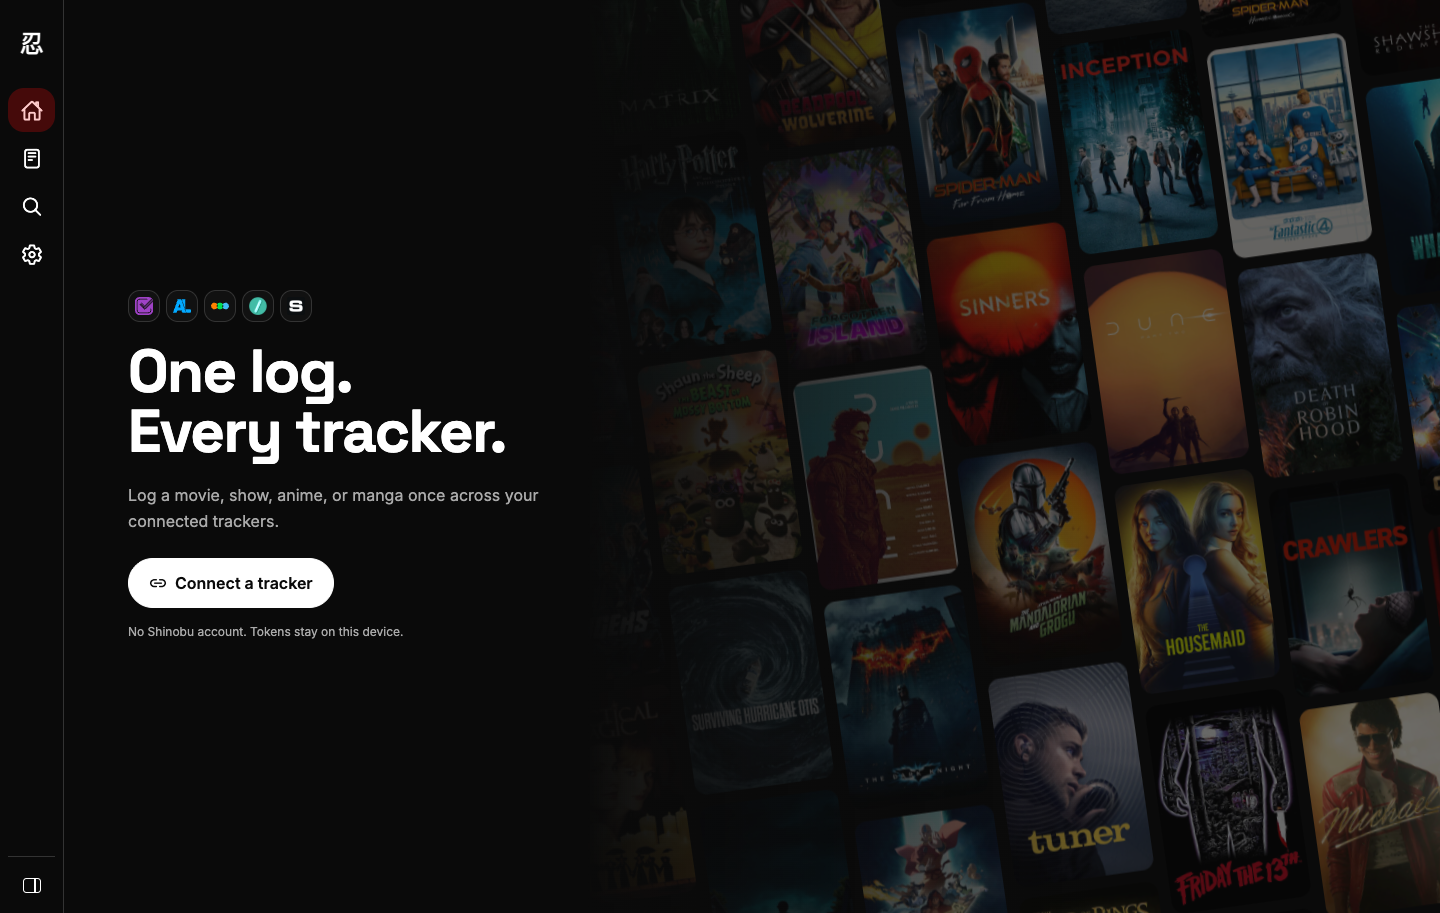
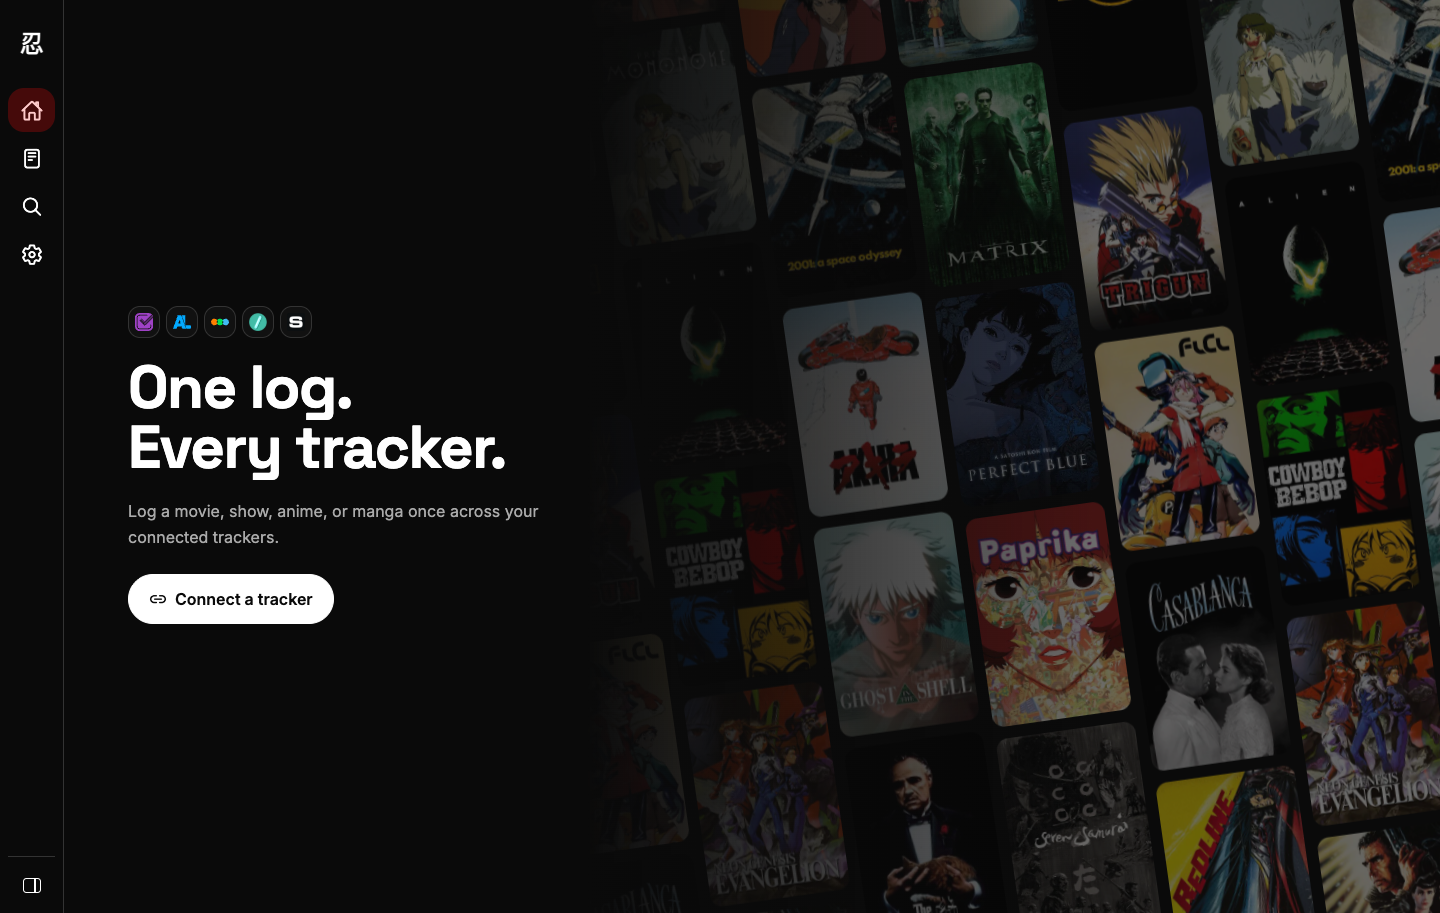
fix(home): favor classic films and anime in the poster wall

diff --git a/src/features/feed/poster-wall.tsx b/src/features/feed/poster-wall.tsx
@@ -1,5 +1,6 @@
 import { LinearGradient } from 'expo-linear-gradient';
 import { useIsFocused } from 'expo-router';
+import { useSyncExternalStore } from 'react';
 import { useWindowDimensions, View } from 'react-native';
 import { css, useReducedMotion } from 'react-native-reanimated';
 // oxlint-disable-next-line no-restricted-imports -- one composed colour, see the call site.
@@ -9,7 +10,38 @@ import { AnimatedView } from '@/components/animated-view';
 import { Image } from '@/components/image';
 import { heldKeyframes } from '@/components/section-enter';
 import { EASE_OUT } from '@/lib/motion';
-import { useTrendingMoviesQuery } from '@/state/queries/use-unified-feed';
+import { tmdbImageUrl } from '@/lib/providers/tmdb/config';
+
+const POSTERS = [
+  '/xDiXDfZwC6XYC6fxHI1jl3A3Ill.jpg', // Cowboy Bebop (1998)
+  '/y2ah9t0navXyIvoHg1uIbIHO3tt.jpg', // Neon Genesis Evangelion (1995)
+  '/63N9uy8nd9j7Eog2axPQ8lbr3Wj.jpg', // Blade Runner (1982)
+  '/39wmItIWsg5sZMyRUHLkWBcuVCM.jpg', // Spirited Away (2001)
+  '/cMYCDADoLKLbB83g4WnJegaZimC.jpg', // Princess Mononoke (1997)
+  '/vfrQk5IPloGg1v9Rzbh2Eg3VGyM.jpg', // Alien (1979)
+  '/neZ0ykEsPqxamsX6o5QNUFILQrz.jpg', // Akira (1988)
+  '/9gC88zYUBARRSThcG93MvW14sqx.jpg', // Ghost in the Shell (1995)
+  '/3bhkrj58Vtu7enYsRolD1fZdja1.jpg', // The Godfather (1972)
+  '/3MQo7PPuntw8GaZrsBPZcJLJity.jpg', // Serial Experiments Lain (1998)
+  '/lYpHeSm7BcUxAbBx1ucuEH7oGAe.jpg', // Samurai Champloo (2004)
+  '/ve72VxNqjGM69Uky4WTo2bK6rfq.jpg', // 2001: A Space Odyssey (1968)
+  '/6WTiOCfDPP8XV4jqfloiVWf7KHq.jpg', // Perfect Blue (1998)
+  '/nHJljo2Pi7XimYEgV9hvRchQWmg.jpg', // Paprika (2006)
+  '/lOMGc8bnSwQhS4XyE1S99uH8NXf.jpg', // Seven Samurai (1954)
+  '/41XxSsJc5OrulP0m7TrrUeO2hoz.jpg', // Castle in the Sky (1986)
+  '/rtGDOeG9LzoerkDGZF9dnVeLppL.jpg', // My Neighbor Totoro (1988)
+  '/dXNAPwY7VrqMAo51EKhhCJfaGb5.jpg', // The Matrix (1999)
+  '/lwLFZFB3S2PeOLtWksaWerF6B4D.jpg', // Trigun (1998)
+  '/FkgA8CcmiLJGVCRYRQ2g2UfVtF.jpg', // FLCL (2000)
+  '/lGCEKlJo2CnWydQj7aamY7s1S7Q.jpg', // Casablanca (1943)
+  '/yUkH0y9OsY7J08Dvfzi1P0di559.jpg', // Redline (2009)
+  '/onCLyCOgszTIyyVs2XKYSkKPOPG.jpg', // Dragon Ball (1986)
+  '/d9mtMGQDLANKieb9PbD3yK7xxzo.jpg', // Jurassic Park (1993)
+].map((path) => tmdbImageUrl(path, 'w342'));
+
+function subscribeNever() {
+  return () => {};
+}
 
 const PER_COLUMN = 6;
 const COMPACT = { width: 112, height: 168, gap: 10 };
@@ -49,20 +81,15 @@ const COLUMN_RHYTHM = [
   { offset: 0.1, duration: 90_000 },
 ];
 
-/**
- * The zero-providers Home backdrop: Simkl's public trending posters (bundled
- * client id, no session), shown once loaded and drifting in tilted columns under a fade to the page
- * background. Decoration only, so it is hidden from touch and screen readers,
- * paused while Home is a background tab, and still under reduced motion.
- */
+/** A fixed mix of classic films and anime keeps the welcome wall out of release-week trends. */
 export function PosterWall() {
-  const { data } = useTrendingMoviesQuery();
+  const hydrated = useSyncExternalStore(subscribeNever, () => true, () => false);
   const { width } = useWindowDimensions();
   const focused = useIsFocused();
   const reduceMotion = useReducedMotion();
   // `useCSSVariable`, not `useThemeColor`: the fade composes a transparent stop
-  // (`${background}00`), which web's `var(--token)` can't. The query never
-  // resolves during prerender, so the wall and this colour are client-only
+  // (`${background}00`), which web's `var(--token)` can't. Wait for hydration
+  // so the wall and this colour are client-only
   // (docs/solutions/web-prerender-bakes-js-resolved-colors.md).
   const backgroundVariable = useCSSVariable('--color-background');
   const background = typeof backgroundVariable === 'string' ? backgroundVariable : undefined;
@@ -71,8 +98,7 @@ export function PosterWall() {
   const size = wide ? WIDE : COMPACT;
   // The tilt pulls the corners inward, so the wall is half again as wide as the screen.
   const columns = Math.ceil((width * 1.5) / (size.width + size.gap));
-  const posters = (data ?? []).map((item) => item.coverImage).filter((uri) => uri !== '');
-  if (posters.length === 0 || background == null) return null;
+  if (!hydrated || background == null) return null;
 
   return (
     <View
@@ -94,56 +120,56 @@ export function PosterWall() {
         {Array.from({ length: columns }, (_, column) => {
           const set = Array.from(
             { length: PER_COLUMN },
-            (_poster, row) => posters[(column * PER_COLUMN + row) % posters.length],
+            (_poster, row) => POSTERS[(column * PER_COLUMN + row) % POSTERS.length],
           );
-            const rhythm = COLUMN_RHYTHM[column % COLUMN_RHYTHM.length];
-            return (
+          const rhythm = COLUMN_RHYTHM[column % COLUMN_RHYTHM.length];
+          return (
+            <AnimatedView
+              key={column}
+              style={{
+                marginTop: -rhythm.offset * (size.height + size.gap),
+                animationName: heldKeyframes(
+                  reduceMotion ? wallFading : wallEntering,
+                  column * ENTER_STAGGER,
+                  ENTER_DURATION,
+                ),
+                animationDuration: ENTER_DURATION + column * ENTER_STAGGER,
+                animationTimingFunction: EASE_OUT,
+              }}
+            >
               <AnimatedView
-                key={column}
                 style={{
-                  marginTop: -rhythm.offset * (size.height + size.gap),
-                  animationName: heldKeyframes(
-                    reduceMotion ? wallFading : wallEntering,
-                    column * ENTER_STAGGER,
-                    ENTER_DURATION,
-                  ),
-                  animationDuration: ENTER_DURATION + column * ENTER_STAGGER,
-                  animationTimingFunction: EASE_OUT,
+                  gap: size.gap,
+                  animationName: reduceMotion ? undefined : wide ? WIDE_DRIFT : COMPACT_DRIFT,
+                  animationDuration: rhythm.duration,
+                  animationTimingFunction: 'linear',
+                  animationIterationCount: 'infinite',
+                  animationDirection: column % 2 === 0 ? 'normal' : 'reverse',
+                  animationPlayState: focused ? 'running' : 'paused',
                 }}
               >
-                <AnimatedView
-                  style={{
-                    gap: size.gap,
-                    animationName: reduceMotion ? undefined : wide ? WIDE_DRIFT : COMPACT_DRIFT,
-                    animationDuration: rhythm.duration,
-                    animationTimingFunction: 'linear',
-                    animationIterationCount: 'infinite',
-                    animationDirection: column % 2 === 0 ? 'normal' : 'reverse',
-                    animationPlayState: focused ? 'running' : 'paused',
-                  }}
-                >
-                  {[...set, ...set, ...set].map((uri, index) => (
-                    // Index keys: the repeated set repeats every uri by design.
-                    <View
-                      className="rounded-lg overflow-hidden bg-surface"
-                      key={index}
-                      style={{ width: size.width, height: size.height }}
-                    >
-                      <Image className="w-full h-full" contentFit="cover" source={{ uri }} />
-                    </View>
-                  ))}
-                </AnimatedView>
+                {[...set, ...set, ...set].map((uri, index) => (
+                  // Index keys: the repeated set repeats every uri by design.
+                  <View
+                    className="rounded-lg overflow-hidden bg-surface"
+                    key={index}
+                    style={{ width: size.width, height: size.height }}
+                  >
+                    <Image className="w-full h-full" contentFit="cover" source={{ uri }} />
+                  </View>
+                ))}
               </AnimatedView>
-            );
-          })}
-        </View>
-        <LinearGradient
-          colors={[`${background}33`, `${background}B3`, background]}
-          end={wide ? { x: 0, y: 0.5 } : { x: 0.5, y: 1 }}
-          locations={wide ? [0.25, 0.5, 0.62] : [0, 0.45, 0.68]}
-          start={wide ? { x: 1, y: 0.5 } : { x: 0.5, y: 0 }}
-          style={{ position: 'absolute', inset: 0 }}
-        />
+            </AnimatedView>
+          );
+        })}
       </View>
+      <LinearGradient
+        colors={[`${background}33`, `${background}B3`, background]}
+        end={wide ? { x: 0, y: 0.5 } : { x: 0.5, y: 1 }}
+        locations={wide ? [0.25, 0.5, 0.62] : [0, 0.45, 0.68]}
+        start={wide ? { x: 1, y: 0.5 } : { x: 0.5, y: 0 }}
+        style={{ position: 'absolute', inset: 0 }}
+      />
+    </View>
   );
 }

diff --git a/src/app/(tabs)/index.tsx b/src/app/(tabs)/index.tsx
@@ -141,11 +141,6 @@ function EmptyFeed({ connectFailed }: { connectFailed: boolean }) {
                 onPress={() => pushRoute(routes.settings)}
               />
             </HeroEnter>
-            <HeroEnter className="mt-4" delay={COPY_STAGGER * 4}>
-              <Text className="text-muted font-sans text-xs text-center md:text-left">
-                No Shinobu account. Tokens stay on this device.
-              </Text>
-            </HeroEnter>
           </View>
         )}
       </GestureScrollView>

diff --git a/src/state/queries/use-unified-feed.ts b/src/state/queries/use-unified-feed.ts
@@ -1,6 +1,5 @@
 import {
   useQueries,
-  useQuery,
   useQueryClient,
   useSuspenseQuery,
   type QueryClient,
@@ -178,10 +177,6 @@ function activeFeedConfigs(
 
 export function useSuspenseTrendingMoviesQuery() {
   return useSuspenseQuery(feedOptions.trendingMovies());
-}
-
-export function useTrendingMoviesQuery() {
-  return useQuery(feedOptions.trendingMovies());
 }
 
 export function useSuspenseTrendingShowsQuery() {

diff --git a/README.md b/README.md
@@ -7,12 +7,12 @@
 <p align="center">One app for all your media trackers. Log a movie, show, anime, or manga once, and Shinobu writes it to every tracker you've connected.</p>
 
 <p align="center">
-  <img src="./docs/images/screenshot-home.png" alt="Shinobu home with a poster wall, the &quot;One log. Every tracker.&quot; headline, a connect button, and the expanded web sidebar" />
+  <img src="./docs/images/screenshot-home.png" alt="Shinobu home with classic film and anime posters, the &quot;One log. Every tracker.&quot; headline, a connect button, and the expanded web sidebar" />
 </p>
 
 <details>
   <summary>See the collapsed web sidebar</summary>
-  <img src="./docs/images/screenshot-home-collapsed.png" alt="Shinobu home with the poster wall, a connect button, and the icon-only sidebar" />
+  <img src="./docs/images/screenshot-home-collapsed.png" alt="Shinobu home with classic film and anime posters, a connect button, and the icon-only sidebar" />
 </details>
 
 <p align="center">
